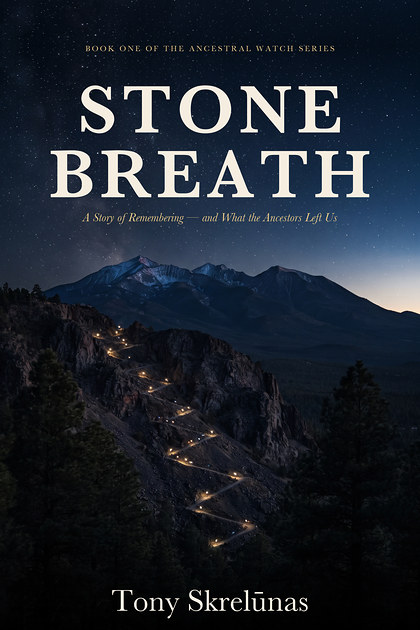
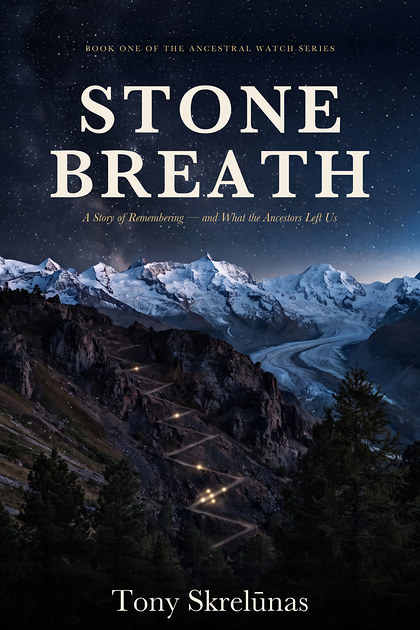
Stone Breath: the cover Tony chose on 11/21, the Swiss Alps before dawn with the five headlamps of mile 95 and three lights above, everywhere the cover shows (home pages, book cards, audio page, journal, press, the book in the solstice article picture); same file names and sizes, a fresh address (?v

diff --git a/journal/index.html b/journal/index.html
@@ -145,7 +145,7 @@
       <li><a href="/journal/seeds-of-the-ancestors/"><span class="n" aria-hidden="true">04</span><img class="th" src="/assets/img/journal-1106/seeds-of-the-ancestors-480x480.jpg" alt="" loading="lazy" decoding="async" width="480" height="480"><span class="t"><b>Seeds of the Ancestors</b><span>The future we keep trying to engineer is already sitting in a jar of seed corn.</span><span class="st">What Gets Carried</span></span></a></li>
       <li><a href="/journal/the-warriors-path/"><span class="n" aria-hidden="true">05</span><img class="th" src="/assets/img/journal-1106/the-warriors-path-480x480.jpg" alt="" loading="lazy" decoding="async" width="480" height="480"><span class="t"><b>The Warrior&rsquo;s Path</b><span>Out of grad school with an MBA and a plan to change a nation, and what the road actually taught me.</span><span class="st">The Long Ride</span></span></a></li>
       <li><a href="/journal/twenty-five-years-to-the-podium-prescott-commencement/"><span class="n" aria-hidden="true">06</span><img class="th" src="/assets/img/journal-1106/twenty-five-years-to-the-podium-prescott-commencement-480x480.jpg" alt="" loading="lazy" decoding="async" width="480" height="480"><span class="t"><b>Twenty-Five Years to That Podium</b><span>Kerosene lamp to commencement podium, and what I found when I finally got there.</span><span class="st">The Doctorate</span></span></a></li>
-      <li><a href="/journal/stone-breath-born-on-the-solstice/"><span class="n" aria-hidden="true">07</span><img class="th" src="/assets/img/journal-1106/stone-breath-born-on-the-solstice-480x480.jpg?v=1121" alt="" loading="lazy" decoding="async" width="480" height="480"><span class="t"><b>Stone Breath: Born on the Solstice, On Purpose</b><span>A man carries his grandfather&rsquo;s book of old melodies home and finds the old ways were only waiting.</span><span class="st">The Novels</span></span></a></li>
+      <li><a href="/journal/stone-breath-born-on-the-solstice/"><span class="n" aria-hidden="true">07</span><img class="th" src="/assets/img/journal-1106/stone-breath-born-on-the-solstice-480x480.jpg?v=1122" alt="" loading="lazy" decoding="async" width="480" height="480"><span class="t"><b>Stone Breath: Born on the Solstice, On Purpose</b><span>A man carries his grandfather&rsquo;s book of old melodies home and finds the old ways were only waiting.</span><span class="st">The Novels</span></span></a></li>
     </ol>
   </div>
 </section>
@@ -295,9 +295,9 @@
         <h2 class="head">The Novels</h2>
         <p class="grp__say">What the essays argue, the fiction carries. Stone Breath came out on the solstice, on purpose, and The Council Fire is out now, with a family walking the red path on its cover.</p>
       </div></div>
-      <figure class="grp__covers"><a href="https://ancestralwatch.com/series/stone-breath/"><img src="/assets/img/stone-breath-cover.jpg?v=1121" alt="Stone Breath, the cover" loading="lazy" decoding="async" width="900" height="1350"></a><a href="https://ancestralwatch.com/series/the-council-fire/"><img src="/assets/img/the-council-fire-arrives-with-a-family-on-its-cover.jpg" alt="The Council Fire, the cover" loading="lazy" decoding="async" width="1067" height="1600"></a><figcaption>The two that are out. Both at <a href="https://ancestralwatch.com">ancestralwatch.com</a>.</figcaption></figure>
+      <figure class="grp__covers"><a href="https://ancestralwatch.com/series/stone-breath/"><img src="/assets/img/stone-breath-cover.jpg?v=1122" alt="Stone Breath, the cover" loading="lazy" decoding="async" width="900" height="1350"></a><a href="https://ancestralwatch.com/series/the-council-fire/"><img src="/assets/img/the-council-fire-arrives-with-a-family-on-its-cover.jpg" alt="The Council Fire, the cover" loading="lazy" decoding="async" width="1067" height="1600"></a><figcaption>The two that are out. Both at <a href="https://ancestralwatch.com">ancestralwatch.com</a>.</figcaption></figure>
       <ul class="jlist">
-        <li><a href="/journal/stone-breath-born-on-the-solstice/"><img class="th" src="/assets/img/journal-1106/stone-breath-born-on-the-solstice-480x480.jpg?v=1121" alt="" loading="lazy" decoding="async" width="480" height="480"><span class="t"><em class="dt"><time datetime="2026-08-07">August&nbsp;7,&nbsp;2026</time></em><b>Stone Breath: Born on the Solstice, On Purpose</b></span></a></li>
+        <li><a href="/journal/stone-breath-born-on-the-solstice/"><img class="th" src="/assets/img/journal-1106/stone-breath-born-on-the-solstice-480x480.jpg?v=1122" alt="" loading="lazy" decoding="async" width="480" height="480"><span class="t"><em class="dt"><time datetime="2026-08-07">August&nbsp;7,&nbsp;2026</time></em><b>Stone Breath: Born on the Solstice, On Purpose</b></span></a></li>
         <li><a href="/journal/what-a-far-messenger-is/"><img class="th" src="/assets/img/journal-1106/what-a-far-messenger-is-480x480.jpg" alt="" loading="lazy" decoding="async" width="480" height="480"><span class="t"><em class="dt"><time datetime="2026-08-25">August&nbsp;25,&nbsp;2026</time></em><b>What a Far Messenger Is</b></span></a></li>
         <li><a href="/journal/stone-breath-has-gone-out-to-the-world/"><span class="th th--art" role="img" aria-label="Stylized cresting wave" style="--art:url(/assets/art/japan-wave.svg)"></span><span class="t"><em class="dt"><time datetime="2026-09-11">September&nbsp;11,&nbsp;2026</time></em><b>Stone Breath Has Gone Out to the World</b></span></a></li>
         <li><a href="/journal/the-council-fire-arrives-with-a-family-on-its-cover/"><img class="th" src="/assets/img/journal-1106/the-council-fire-arrives-with-a-family-on-its-cover-480x480.jpg" alt="" loading="lazy" decoding="async" width="480" height="480"><span class="t"><em class="dt"><time datetime="2026-10-19">October&nbsp;19,&nbsp;2026</time></em><b>The Council Fire Arrives With a Family on Its Cover</b></span></a></li>

diff --git a/ja/sobo-dake-ga-shitteita-shigoto/index.html b/ja/sobo-dake-ga-shitteita-shigoto/index.html
@@ -181,7 +181,7 @@
 <p>だから、私たちより前に来た人たちは、何も取り逃がしてなどいなかった。彼らは、唯一長く続くことをしていたのだ。会うことのないかもしれない子のために種をまき、誰も点数をつけないままそれをやった。トウモロコシ畑にいる曾祖父母を思うとき、私は見出されるのを待っている人々を思い浮かべない。自分がどこにいるか、誰のために働いているかを、正確に知っていた人々を思い浮かべる。</p>
 <figure class="art-fig"><img src="/assets/img/journal-1110/the-oak-planted-for-someone-not-yet-born-1200x800.jpg" srcset="/assets/img/journal-1110/the-oak-planted-for-someone-not-yet-born-1200x800.jpg 1200w, /assets/img/journal-1110/the-oak-planted-for-someone-not-yet-born-2000x1333.jpg 2000w" sizes="(max-width: 900px) 100vw, 900px" alt="夜明けの露に濡れた野原で、木の杭のそばに植えられたばかりの若いオークの苗。霧の中、その後ろに巨大な老いたオークが立っている" loading="lazy" decoding="async" width="1200" height="800"></figure>
 <p>私はその感覚を Stone Breath に書き込んだ。トナスは本を一冊持ち帰るよう頼まれているが、どこへ持ち帰るのかは誰にも告げられなかった。アウステヤ(Austėja)は、彼の曾祖父が子どもが生まれたときに植えたオークを覚えていて、それを探す手伝いのために丸一日を差し出すと言う。本当にそうするのかと彼が尋ねると、彼女は答える。「あなたのためにやっているんじゃない。あの人たちのためにやっているの」。オークは喝采のために植えるものではない。自分がいなくなってからずっと後に、その木陰に立つ誰かのために植えるのだ。<a href="https://ancestralwatch.com/series/stone-breath/">その本はここにある</a>。</p>
-<aside class="bookcard"><a href="https://ancestralwatch.com/series/stone-breath/"><img src="/assets/home-v2/img/cover-stone-breath-560.jpg?v=1121" alt="Stone Breath の表紙" loading="lazy" width="300" height="450"><span><em>The Ancestral Watch 第一巻</em><b>Stone Breath</b><span class="bookcard__go">本を見る &rarr;</span></span></a></aside>
+<aside class="bookcard"><a href="https://ancestralwatch.com/series/stone-breath/"><img src="/assets/home-v2/img/cover-stone-breath-560.jpg?v=1122" alt="Stone Breath の表紙" loading="lazy" width="300" height="450"><span><em>The Ancestral Watch 第一巻</em><b>Stone Breath</b><span class="bookcard__go">本を見る &rarr;</span></span></a></aside>
 <p>次にその声が現れたとき、これでできることがある。立ち止まって、世界が覚えていない静かな仕事を自分のためにしてくれた人をひとり、思い浮かべる。その名を声に出して言う。それから自分の持ち場に戻り、自分の静かな仕事に一時間を捧げる。あとから来る誰かのために。心が落ち着くことの短いリストを持っておくと助けになる。散歩、ゆっくりした数回の呼吸、ストレッチ、日記の一ページ。気づけば画面をスクロールしていたら、そのリストを開いてひとつやってみて、それでもまだ画面が欲しいかどうか確かめてほしい。</p>
 <p>あなたがあそこで築くものを、世界は覚えていないかもしれない。それは最初から要点ではなかった。あなたの孫たちが、その上に立つのだ。</p>
 

diff --git a/es/el-trabajo-que-solo-mi-abuela-conocia/index.html b/es/el-trabajo-que-solo-mi-abuela-conocia/index.html
@@ -181,7 +181,7 @@
 <p>Así que los que vinieron antes que nosotros no se estaban perdiendo nada. Hacían lo único que dura. Sembraron para un niño que quizá nunca conocerían, y lo hicieron sin que nadie llevara la cuenta. Cuando pienso en mis bisabuelos en el campo de maíz, no me imagino gente esperando a ser descubierta. Me imagino gente que sabía exactamente dónde estaba y exactamente para quién trabajaba.</p>
 <figure class="art-fig"><img src="/assets/img/journal-1110/the-oak-planted-for-someone-not-yet-born-1200x800.jpg" srcset="/assets/img/journal-1110/the-oak-planted-for-someone-not-yet-born-1200x800.jpg 1200w, /assets/img/journal-1110/the-oak-planted-for-someone-not-yet-born-2000x1333.jpg 2000w" sizes="(max-width: 900px) 100vw, 900px" alt="Un roble joven recién plantado junto a una estaca de madera en un campo con rocío al amanecer, y detrás, entre la niebla, un roble viejo enorme" loading="lazy" decoding="async" width="1200" height="800"></figure>
 <p>Escribí ese sentimiento en Stone Breath. A Tonas le han pedido que traiga un libro a casa, y nunca le dijeron dónde. Austėja recuerda un roble que el bisabuelo de él plantó cuando nació un niño, y se ofrece a dedicar un día entero para ayudarlo a encontrarlo. Cuando él le pregunta si de verdad lo haría, ella le dice: &ldquo;No lo hago por ti. Lo hago por ellos.&rdquo; Nadie planta un roble para recibir aplausos. Se planta para alguien que estará bajo su sombra mucho después de que tú ya no estés. <a href="https://ancestralwatch.com/series/stone-breath/">El libro está aquí</a>.</p>
-<aside class="bookcard"><a href="https://ancestralwatch.com/series/stone-breath/"><img src="/assets/home-v2/img/cover-stone-breath-560.jpg?v=1121" alt="La portada de Stone Breath" loading="lazy" width="300" height="450"><span><em>Libro uno de The Ancestral Watch</em><b>Stone Breath</b><span class="bookcard__go">Ver el libro &rarr;</span></span></a></aside>
+<aside class="bookcard"><a href="https://ancestralwatch.com/series/stone-breath/"><img src="/assets/home-v2/img/cover-stone-breath-560.jpg?v=1122" alt="La portada de Stone Breath" loading="lazy" width="300" height="450"><span><em>Libro uno de The Ancestral Watch</em><b>Stone Breath</b><span class="bookcard__go">Ver el libro &rarr;</span></span></a></aside>
 <p>Esto es lo que puedes hacer con todo esto la próxima vez que aparezca la voz. Detente y nombra a una persona que hizo para ti un trabajo callado que el mundo no recuerda. Di su nombre en voz alta. Luego vuelve a tu propia tierra y dale una hora a tu propio trabajo callado, para alguien que viene después de ti. Ayuda tener una lista corta de las cosas que te calman, una caminata, unas cuantas respiraciones lentas, un estiramiento, una página de un diario. Cuando te descubras desplazando la pantalla, ve a la lista y haz una, y mira si todavía quieres la pantalla.</p>
 <p>Puede que el mundo no recuerde lo que construyas allá afuera. Ese nunca fue el punto. Tus nietos estarán parados sobre ello.</p>
 

diff --git a/journal/the-work-only-my-grandmother-knew-about/index.html b/journal/the-work-only-my-grandmother-knew-about/index.html
@@ -177,7 +177,7 @@
 <p>So the ones who came before us were not missing out. They were doing the one thing that lasts. They planted for a child they might never meet, and they did it without anyone keeping score. When I think about my great-grandparents in the cornfield, I do not picture people waiting to be discovered. I picture people who knew exactly where they were and exactly who they were working for.</p>
 <figure class="art-fig"><img src="/assets/img/journal-1110/the-oak-planted-for-someone-not-yet-born-1200x800.jpg" srcset="/assets/img/journal-1110/the-oak-planted-for-someone-not-yet-born-1200x800.jpg 1200w, /assets/img/journal-1110/the-oak-planted-for-someone-not-yet-born-2000x1333.jpg 2000w" sizes="(max-width: 900px) 100vw, 900px" alt="A young oak sapling newly planted beside a wooden stake in a dewy field at sunrise, with a huge old oak standing in the mist behind it" loading="lazy" decoding="async" width="1200" height="800"></figure>
 <p>I wrote that feeling into Stone Breath. Tonas has been asked to bring a book home, and he was never told where. Austėja remembers an oak his great-grandfather planted when a child was born, and she offers to give up a whole day to help him find it. When he asks if she would really do that, she tells him, &ldquo;I&rsquo;m not doing this for you. I&rsquo;m doing it for them.&rdquo; Nobody plants an oak for applause. You plant it for someone who will stand in its shade long after you are gone. <a href="https://ancestralwatch.com/series/stone-breath/">The book is here</a>.</p>
-<aside class="bookcard"><a href="https://ancestralwatch.com/series/stone-breath/"><img src="/assets/home-v2/img/cover-stone-breath-560.jpg?v=1121" alt="The cover of Stone Breath" loading="lazy" width="300" height="450"><span><em>Book one of The Ancestral Watch</em><b>Stone Breath</b><span class="bookcard__go">See the book &rarr;</span></span></a></aside>
+<aside class="bookcard"><a href="https://ancestralwatch.com/series/stone-breath/"><img src="/assets/home-v2/img/cover-stone-breath-560.jpg?v=1122" alt="The cover of Stone Breath" loading="lazy" width="300" height="450"><span><em>Book one of The Ancestral Watch</em><b>Stone Breath</b><span class="bookcard__go">See the book &rarr;</span></span></a></aside>
 <p>Here is something you can do with this the next time the voice shows up. Stop, and name one person who did quiet work for you that the world does not remember. Say their name out loud. Then go back to your own ground and give one hour to your own quiet work, for someone who comes after you. It helps to keep a short list of the things that settle you, a walk, a few slow breaths, a stretch, a page in a journal. When you catch yourself scrolling, go to the list and do one, and see if you still want the screen.</p>
 <p>The world may not remember what you build out there. That was never the point. Your grandchildren will be standing on it.</p> <div class="share">
   <p>Share it</p>

diff --git a/lt/darbas-apie-kuri-zinojo-tik-mano-mociute/index.html b/lt/darbas-apie-kuri-zinojo-tik-mano-mociute/index.html
@@ -181,7 +181,7 @@
 <p>Taigi tie, kurie buvo prieš mus, nieko neprarado. Jie darė vienintelį dalyką, kuris išlieka. Sodino vaikui, kurio gal niekada nesutiks, ir darė tai niekam neskaičiuojant taškų. Kai pagalvoju apie savo prosenelius kukurūzų lauke, neįsivaizduoju žmonių, laukiančių, kol bus atrasti. Įsivaizduoju žmones, kurie tiksliai žinojo, kur yra ir kam dirba.</p>
 <figure class="art-fig"><img src="/assets/img/journal-1110/the-oak-planted-for-someone-not-yet-born-1200x800.jpg" srcset="/assets/img/journal-1110/the-oak-planted-for-someone-not-yet-born-1200x800.jpg 1200w, /assets/img/journal-1110/the-oak-planted-for-someone-not-yet-born-2000x1333.jpg 2000w" sizes="(max-width: 900px) 100vw, 900px" alt="Jaunas ką tik pasodintas ąžuoliukas šalia medinio kuolelio rasotame lauke saulėtekio metu, o už jo rūke stovi didžiulis senas ąžuolas" loading="lazy" decoding="async" width="1200" height="800"></figure>
 <p>Tą jausmą įrašiau į Stone Breath. Tonui liepta parnešti namo knygą, ir niekas jam nepasakė, kur. Austėja prisimena ąžuolą, kurį jo prosenelis pasodino, kai gimė vaikas, ir pasiūlo atiduoti visą dieną, kad padėtų jį surasti. Kai jis paklausia, ar ji tikrai taip padarytų, ji atsako: &ldquo;Aš to nedarau dėl tavęs. Darau tai dėl jų.&rdquo; Niekas nesodina ąžuolo plojimams. Sodini tam, kas stovės jo pavėsyje ilgai po to, kai tavęs nebus. <a href="https://ancestralwatch.com/series/stone-breath/">Knyga yra čia</a>.</p>
-<aside class="bookcard"><a href="https://ancestralwatch.com/series/stone-breath/"><img src="/assets/home-v2/img/cover-stone-breath-560.jpg?v=1121" alt="Stone Breath viršelis" loading="lazy" width="300" height="450"><span><em>Pirma „The Ancestral Watch“ knyga</em><b>Stone Breath</b><span class="bookcard__go">Pamatyti knygą &rarr;</span></span></a></aside>
+<aside class="bookcard"><a href="https://ancestralwatch.com/series/stone-breath/"><img src="/assets/home-v2/img/cover-stone-breath-560.jpg?v=1122" alt="Stone Breath viršelis" loading="lazy" width="300" height="450"><span><em>Pirma „The Ancestral Watch“ knyga</em><b>Stone Breath</b><span class="bookcard__go">Pamatyti knygą &rarr;</span></span></a></aside>
 <p>Štai ką su tuo gali daryti kitą kartą, kai balsas pasirodys. Sustok ir įvardyk vieną žmogų, kuris tau dirbo tylų darbą, kurio pasaulis neprisimena. Pasakyk jo vardą garsiai. Tada grįžk į savo žemę ir skirk valandą savo tylam darbui, kam nors, kas ateis po tavęs. Padeda trumpas sąrašas dalykų, kurie tave nuramina: pasivaikščiojimas, keli lėti įkvėpimai, patempimas, puslapis dienoraštyje. Pagavęs save slenkant ekraną, eik prie sąrašo ir padaryk vieną dalyką, ir pažiūrėk, ar vis dar nori ekrano.</p>
 <p>Pasaulis gali neprisiminti to, ką ten pastatysi. Tai niekada nebuvo esmė. Tavo anūkai stovės ant to.</p>
 

diff --git a/journal/stone-breath-born-on-the-solstice/index.html b/journal/stone-breath-born-on-the-solstice/index.html
@@ -62,7 +62,7 @@
 <meta property="og:title" content="Stone Breath: Born on the Solstice, On Purpose — TribeAwaken">
 <meta property="og:description" content="A novel about the songs we carry across oceans — and the roots that a lifetime of forgetting could never take. Released on the solstice, on purpose.">
 <meta property="og:url" content="https://tribeawaken.com/journal/stone-breath-born-on-the-solstice/">
-<meta property="og:image" content="https://tribeawaken.com/assets/img/journal/stone-breath-born-on-the-solstice/0.jpeg?v=1121">
+<meta property="og:image" content="https://tribeawaken.com/assets/img/journal/stone-breath-born-on-the-solstice/0.jpeg?v=1122">
 <meta name="twitter:card" content="summary_large_image">
 <style>
 .upd{border:1px solid var(--clay);border-left-width:3px;border-radius:2px;
@@ -114,7 +114,7 @@
 <!-- ===== /SITE MENU ===== -->
 
 
-<main id="main"><article class="art"><div class="wrap"><p class="eyebrow" style="color:var(--turq)">The Books</p><h1 style="font-family:var(--font-display);font-size:var(--step-4);line-height:1.08;">Stone Breath: Born on the Solstice, On Purpose</h1><p class="lead">A novel about the songs we carry across oceans — and the roots that a lifetime of forgetting could never take. Released on the solstice, on purpose.</p><figure class="article__hero" style="margin:0 0 var(--space-4);border-radius:var(--radius-lg);overflow:hidden;"><img src="/assets/img/journal/stone-breath-born-on-the-solstice/0.jpeg?v=1121" alt="" loading="eager" style="width:100%;height:auto;display:block;"></figure><p class="artdate"><time datetime="2026-08-07">August&nbsp;7,&nbsp;2026</time></p>
+<main id="main"><article class="art"><div class="wrap"><p class="eyebrow" style="color:var(--turq)">The Books</p><h1 style="font-family:var(--font-display);font-size:var(--step-4);line-height:1.08;">Stone Breath: Born on the Solstice, On Purpose</h1><p class="lead">A novel about the songs we carry across oceans — and the roots that a lifetime of forgetting could never take. Released on the solstice, on purpose.</p><figure class="article__hero" style="margin:0 0 var(--space-4);border-radius:var(--radius-lg);overflow:hidden;"><img src="/assets/img/journal/stone-breath-born-on-the-solstice/0.jpeg?v=1122" alt="" loading="eager" style="width:100%;height:auto;display:block;"></figure><p class="artdate"><time datetime="2026-08-07">August&nbsp;7,&nbsp;2026</time></p>
 <div class="article__body"><div class="upd">
 <b>Update &middot; September 11, 2026</b>
 <p><em>Stone Breath</em> is now in <strong>worldwide distribution</strong> &mdash; Apple Books, Kobo, booksellers from Berlin to Sydney, and the catalogs public libraries draw from. One universal link routes you to whichever store is yours: <a href="https://books2read.com/u/4AEDdd" target="_blank" rel="noopener">books2read.com/u/4AEDdd</a></p>

diff --git a/ja/home/index.html b/ja/home/index.html
@@ -125,7 +125,7 @@
         <a class="btn ghost dark" href="/contact/#write">Tonyと仕事をする</a>
       </div>
       <a class="hero-books reveal d3" href="https://ancestralwatch.com">
-        <span class="covers"><img src="/assets/home-v2/img/cover-stone-breath-560.jpg?v=1121" alt=""><img src="/assets/home-v2/img/cover-the-far-messengers-560.jpg" alt=""><img src="/assets/home-v2/img/cover-the-council-fire-600.jpg?v=1111" alt=""></span>
+        <span class="covers"><img src="/assets/home-v2/img/cover-stone-breath-560.jpg?v=1122" alt=""><img src="/assets/home-v2/img/cover-the-far-messengers-560.jpg" alt=""><img src="/assets/home-v2/img/cover-the-council-fire-600.jpg?v=1111" alt=""></span>
         <span class="t"><b>小説シリーズ「Ancestral Watch」</b><small>Stone Breath · The Far Messengers · The Council Fire</small></span><span class="arrow" aria-hidden="true">→</span>
       </a>
       <div class="say reveal d4">
@@ -409,7 +409,7 @@
     <p class="reveal">これまでに三作の小説があり、それぞれのなかにひとつの実践があります。『Stone Breath（石の呼吸）』は、上で数えた呼吸です。『The Far Messengers』は鍛錬です。『The Council Fire（評議の火）』は輪、そしてひとつの民が立て直していく道筋です。</p>
   </div>
   <div class="shelf">
-    <a class="book reveal" href="https://ancestralwatch.com/series/stone-breath/"><img src="/assets/home-v2/img/cover-stone-breath-560.jpg?v=1121" alt="『Stone Breath』第一巻" loading="lazy"><div><h3>Stone Breath</h3><p>思い出すことの物語。そして、川の小石の上で数える呼吸。</p><small>第一巻 →</small></div></a>
+    <a class="book reveal" href="https://ancestralwatch.com/series/stone-breath/"><img src="/assets/home-v2/img/cover-stone-breath-560.jpg?v=1122" alt="『Stone Breath』第一巻" loading="lazy"><div><h3>Stone Breath</h3><p>思い出すことの物語。そして、川の小石の上で数える呼吸。</p><small>第一巻 →</small></div></a>
     <a class="book reveal d1" href="https://ancestralwatch.com/series/the-far-messengers/"><img src="/assets/home-v2/img/cover-the-far-messengers-560.jpg" alt="『The Far Messengers』第二巻" loading="lazy"><div><h3>The Far Messengers</h3><p>世界会議での七日間と、運び手たちが積んだ鍛錬。</p><small>第二巻 →</small></div></a>
     <a class="book reveal d2" href="https://ancestralwatch.com/series/the-council-fire/"><img src="/assets/home-v2/img/cover-the-council-fire-600.jpg?v=1111" alt="『The Council Fire』第三巻" loading="lazy"><div><h3>The Council Fire</h3><p>私たちが立て直す世界のための、原初の教え。表紙には家族の姿。</p><small>第三巻 →</small></div></a>
   </div>

diff --git a/lt/pradzia/index.html b/lt/pradzia/index.html
@@ -125,7 +125,7 @@
         <a class="btn ghost dark" href="/contact/#write">Dirbti su Tony</a>
       </div>
       <a class="hero-books reveal d3" href="https://ancestralwatch.com">
-        <span class="covers"><img src="/assets/home-v2/img/cover-stone-breath-560.jpg?v=1121" alt=""><img src="/assets/home-v2/img/cover-the-far-messengers-560.jpg" alt=""><img src="/assets/home-v2/img/cover-the-council-fire-600.jpg?v=1111" alt=""></span>
+        <span class="covers"><img src="/assets/home-v2/img/cover-stone-breath-560.jpg?v=1122" alt=""><img src="/assets/home-v2/img/cover-the-far-messengers-560.jpg" alt=""><img src="/assets/home-v2/img/cover-the-council-fire-600.jpg?v=1111" alt=""></span>
         <span class="t"><b>Romanų serija „Ancestral Watch“</b><small>Stone Breath · The Far Messengers · The Council Fire</small></span><span class="arrow" aria-hidden="true">→</span>
       </a>
       <div class="say reveal d4">
@@ -409,7 +409,7 @@
     <p class="reveal">Kol kas trys romanai, ir kiekviename slypi praktika. „Stone Breath“ („Akmens kvėpavimas“) yra aukščiau skaičiuotas kvėpavimas. „The Far Messengers“ yra treniruotė. „The Council Fire“ („Tarybos ugnis“) yra ratas ir tai, kaip tauta atsikuria.</p>
   </div>
   <div class="shelf">
-    <a class="book reveal" href="https://ancestralwatch.com/series/stone-breath/"><img src="/assets/home-v2/img/cover-stone-breath-560.jpg?v=1121" alt="„Stone Breath“, pirmoji knyga" loading="lazy"><div><h3>Stone Breath</h3><p>Pasakojimas apie atsiminimą, o kartu kvėpavimas, skaičiuojamas ant upės akmenuko.</p><small>Pirmoji knyga →</small></div></a>
+    <a class="book reveal" href="https://ancestralwatch.com/series/stone-breath/"><img src="/assets/home-v2/img/cover-stone-breath-560.jpg?v=1122" alt="„Stone Breath“, pirmoji knyga" loading="lazy"><div><h3>Stone Breath</h3><p>Pasakojimas apie atsiminimą, o kartu kvėpavimas, skaičiuojamas ant upės akmenuko.</p><small>Pirmoji knyga →</small></div></a>
     <a class="book reveal d1" href="https://ancestralwatch.com/series/the-far-messengers/"><img src="/assets/home-v2/img/cover-the-far-messengers-560.jpg" alt="„The Far Messengers“, antroji knyga" loading="lazy"><div><h3>The Far Messengers</h3><p>Septynios dienos pasauliniame kongrese ir disciplinos, kurių mokėsi nešėjai.</p><small>Antroji knyga →</small></div></a>
     <a class="book reveal d2" href="https://ancestralwatch.com/series/the-council-fire/"><img src="/assets/home-v2/img/cover-the-council-fire-600.jpg?v=1111" alt="„The Council Fire“, trečioji knyga" loading="lazy"><div><h3>The Council Fire</h3><p>Pirmapradžiai priesakai pasauliui, kurį atkuriame, su šeima viršelyje.</p><small>Trečioji knyga →</small></div></a>
   </div>

diff --git a/es/inicio/index.html b/es/inicio/index.html
@@ -125,7 +125,7 @@
         <a class="btn ghost dark" href="/contact/#write">Trabaje con Tony</a>
       </div>
       <a class="hero-books reveal d3" href="https://ancestralwatch.com">
-        <span class="covers"><img src="/assets/home-v2/img/cover-stone-breath-560.jpg?v=1121" alt=""><img src="/assets/home-v2/img/cover-the-far-messengers-560.jpg" alt=""><img src="/assets/home-v2/img/cover-the-council-fire-600.jpg?v=1111" alt=""></span>
+        <span class="covers"><img src="/assets/home-v2/img/cover-stone-breath-560.jpg?v=1122" alt=""><img src="/assets/home-v2/img/cover-the-far-messengers-560.jpg" alt=""><img src="/assets/home-v2/img/cover-the-council-fire-600.jpg?v=1111" alt=""></span>
         <span class="t"><b>Las novelas Ancestral Watch</b><small>Stone Breath · The Far Messengers · The Council Fire</small></span><span class="arrow" aria-hidden="true">→</span>
       </a>
       <div class="say reveal d4">
@@ -409,7 +409,7 @@
     <p class="reveal">Tres novelas hasta ahora, y una práctica dentro de cada una. Stone Breath (La respiración de la piedra) es la respiración que contamos más arriba. The Far Messengers es el entrenamiento. The Council Fire (El Fuego del Consejo) es el círculo, y la manera en que un pueblo se reconstruye.</p>
   </div>
   <div class="shelf">
-    <a class="book reveal" href="https://ancestralwatch.com/series/stone-breath/"><img src="/assets/home-v2/img/cover-stone-breath-560.jpg?v=1121" alt="Stone Breath, libro uno" loading="lazy"><div><h3>Stone Breath</h3><p>Una historia del recordar, y la respiración contada sobre una piedrita de río.</p><small>Libro uno →</small></div></a>
+    <a class="book reveal" href="https://ancestralwatch.com/series/stone-breath/"><img src="/assets/home-v2/img/cover-stone-breath-560.jpg?v=1122" alt="Stone Breath, libro uno" loading="lazy"><div><h3>Stone Breath</h3><p>Una historia del recordar, y la respiración contada sobre una piedrita de río.</p><small>Libro uno →</small></div></a>
     <a class="book reveal d1" href="https://ancestralwatch.com/series/the-far-messengers/"><img src="/assets/home-v2/img/cover-the-far-messengers-560.jpg" alt="The Far Messengers, libro dos" loading="lazy"><div><h3>The Far Messengers</h3><p>Siete días en un congreso mundial, y las disciplinas en que se entrenaban los portadores.</p><small>Libro dos →</small></div></a>
     <a class="book reveal d2" href="https://ancestralwatch.com/series/the-council-fire/"><img src="/assets/home-v2/img/cover-the-council-fire-600.jpg?v=1111" alt="The Council Fire, libro tres" loading="lazy"><div><h3>The Council Fire</h3><p>Las instrucciones originales para el mundo que reconstruimos, con una familia en su portada.</p><small>Libro tres →</small></div></a>
   </div>

diff --git a/human-resilience/v2/index.html b/human-resilience/v2/index.html
@@ -104,7 +104,7 @@
       <a class="btn green" href="#healing">Begin here <span class="arrow">→</span></a>
       <a class="btn ghost dark" href="/human-resilience/essay/">Read the whole essay</a>
     </div>
-    <a class="bookline reveal d4" href="https://ancestralwatch.com"><img src="/assets/home-v2/img/cover-stone-breath-560.jpg?v=1121" alt="Stone Breath, the book"><span><b>Stone Breath</b><small>A Story of Remembering — and What the Ancestors Left Us. Book one of the Ancestral Watch.</small></span></a>
+    <a class="bookline reveal d4" href="https://ancestralwatch.com"><img src="/assets/home-v2/img/cover-stone-breath-560.jpg?v=1122" alt="Stone Breath, the book"><span><b>Stone Breath</b><small>A Story of Remembering — and What the Ancestors Left Us. Book one of the Ancestral Watch.</small></span></a>
   </div>
   <div class="media">
     <div class="ap-loop" data-src="/assets/home-v2/video/garden-first-light-misty-1280x720-dawn-20s.mp4" data-poster="/assets/home-v2/img/garden-first-light-misty-dawn-poster-1280.jpg" data-src-wide="/assets/home-v2/video/garden-first-light-misty-1280x720-dawn-20s.mp4" data-poster-wide="/assets/home-v2/img/garden-first-light-misty-dawn-poster-1280.jpg" data-src-phone="/assets/pillars-1110/video/garden-first-light-misty-720x1280-light.mp4" data-poster-phone="/assets/pillars-1110/video/garden-first-light-misty-720x1280-poster.jpg"></div>
@@ -178,7 +178,7 @@
     <div class="ap-loop" data-src="/assets/home-v2/video/the-stone-in-a-childs-hand.mp4" data-poster="/assets/home-v2/video/the-stone-in-a-childs-hand-poster.jpg"></div>
     <p class="cap">A stone is placed in a child's open hand.</p>
   </div>
-  <img class="cover r" src="/assets/home-v2/img/cover-stone-breath-560.jpg?v=1121" alt="" loading="lazy">
+  <img class="cover r" src="/assets/home-v2/img/cover-stone-breath-560.jpg?v=1122" alt="" loading="lazy">
   <div class="text">
     <span class="num reveal">04</span>
     <h2 class="reveal">The Stone Breath.</h2>
@@ -206,7 +206,7 @@
 <!-- ===== 06 THE BOOKS ===== -->
 <section class="row2" id="books" data-scene="hearth" data-scene-label="amber light">
   <div class="shelf reveal">
-    <img src="/assets/home-v2/img/cover-stone-breath-560.jpg?v=1121" alt="Stone Breath" loading="lazy">
+    <img src="/assets/home-v2/img/cover-stone-breath-560.jpg?v=1122" alt="Stone Breath" loading="lazy">
     <img src="/assets/home-v2/img/cover-the-far-messengers-560.jpg" alt="The Far Messengers" loading="lazy">
     <img src="/assets/home-v2/img/cover-the-council-fire-600.jpg" alt="The Council Fire" loading="lazy">
   </div>

diff --git a/index.html b/index.html
@@ -131,7 +131,7 @@
         <a class="btn ghost dark" href="/contact/#write">Work with Tony</a>
       </div>
       <a class="hero-books reveal d3" href="https://ancestralwatch.com">
-        <span class="covers"><img src="/assets/home-v2/img/cover-stone-breath-560.jpg?v=1121" alt=""><img src="/assets/home-v2/img/cover-the-far-messengers-560.jpg" alt=""><img src="/assets/home-v2/img/cover-the-council-fire-600.jpg?v=1111" alt=""></span>
+        <span class="covers"><img src="/assets/home-v2/img/cover-stone-breath-560.jpg?v=1122" alt=""><img src="/assets/home-v2/img/cover-the-far-messengers-560.jpg" alt=""><img src="/assets/home-v2/img/cover-the-council-fire-600.jpg?v=1111" alt=""></span>
         <span class="t"><b>The Ancestral Watch novels</b><small>Stone Breath · The Far Messengers · The Council Fire</small></span><span class="arrow" aria-hidden="true">→</span>
       </a>
       <div class="say reveal d4">
@@ -374,7 +374,7 @@
     <p class="reveal">Three novels so far, and a practice inside each one. Stone Breath is the breath counted above. The Far Messengers is the training. The Council Fire is the circle, and how a people rebuilds.</p>
   </div>
   <div class="shelf">
-    <a class="book reveal" href="https://ancestralwatch.com/series/stone-breath/"><img src="/assets/home-v2/img/cover-stone-breath-560.jpg?v=1121" alt="Stone Breath, book one" loading="lazy"><div><h3>Stone Breath</h3><p>A story of remembering, and the breath counted on a river pebble.</p><small>Book one →</small></div></a>
+    <a class="book reveal" href="https://ancestralwatch.com/series/stone-breath/"><img src="/assets/home-v2/img/cover-stone-breath-560.jpg?v=1122" alt="Stone Breath, book one" loading="lazy"><div><h3>Stone Breath</h3><p>A story of remembering, and the breath counted on a river pebble.</p><small>Book one →</small></div></a>
     <a class="book reveal d1" href="https://ancestralwatch.com/series/the-far-messengers/"><img src="/assets/home-v2/img/cover-the-far-messengers-560.jpg" alt="The Far Messengers, book four" loading="lazy"><div><h3>The Far Messengers</h3><p>Seven days at a world congress, and the disciplines the carriers trained.</p><small>Book two →</small></div></a>
     <a class="book reveal d2" href="https://ancestralwatch.com/series/the-council-fire/"><img src="/assets/home-v2/img/cover-the-council-fire-600.jpg?v=1111" alt="The Council Fire, book three" loading="lazy"><div><h3>The Council Fire</h3><p>The original instructions for the world we rebuild, with a family on its cover.</p><small>Book three →</small></div></a>
   </div>

diff --git a/phone-test/index.html b/phone-test/index.html
@@ -133,7 +133,7 @@
         <a class="btn ghost dark" href="/contact/#write">Work with Tony</a>
       </div>
       <a class="hero-books reveal d3" href="https://ancestralwatch.com">
-        <span class="covers"><img src="/assets/home-v2/img/cover-stone-breath-560.jpg?v=1121" alt=""><img src="/assets/home-v2/img/cover-the-far-messengers-560.jpg" alt=""><img src="/assets/home-v2/img/cover-the-council-fire-600.jpg?v=1111" alt=""></span>
+        <span class="covers"><img src="/assets/home-v2/img/cover-stone-breath-560.jpg?v=1122" alt=""><img src="/assets/home-v2/img/cover-the-far-messengers-560.jpg" alt=""><img src="/assets/home-v2/img/cover-the-council-fire-600.jpg?v=1111" alt=""></span>
         <span class="t"><b>The Ancestral Watch novels</b><small>Stone Breath · The Far Messengers · The Council Fire</small></span><span class="arrow" aria-hidden="true">→</span>
       </a>
       <div class="say reveal d4">
@@ -376,7 +376,7 @@
     <p class="reveal">Three novels so far, and a practice inside each one. Stone Breath is the breath counted above. The Far Messengers is the training. The Council Fire is the circle, and how a people rebuilds.</p>
   </div>
   <div class="shelf">
-    <a class="book reveal" href="https://ancestralwatch.com/series/stone-breath/"><img src="/assets/home-v2/img/cover-stone-breath-560.jpg?v=1121" alt="Stone Breath, book one" loading="lazy"><div><h3>Stone Breath</h3><p>A story of remembering, and the breath counted on a river pebble.</p><small>Book one →</small></div></a>
+    <a class="book reveal" href="https://ancestralwatch.com/series/stone-breath/"><img src="/assets/home-v2/img/cover-stone-breath-560.jpg?v=1122" alt="Stone Breath, book one" loading="lazy"><div><h3>Stone Breath</h3><p>A story of remembering, and the breath counted on a river pebble.</p><small>Book one →</small></div></a>
     <a class="book reveal d1" href="https://ancestralwatch.com/series/the-far-messengers/"><img src="/assets/home-v2/img/cover-the-far-messengers-560.jpg" alt="The Far Messengers, book four" loading="lazy"><div><h3>The Far Messengers</h3><p>Seven days at a world congress, and the disciplines the carriers trained.</p><small>Book two →</small></div></a>
     <a class="book reveal d2" href="https://ancestralwatch.com/series/the-council-fire/"><img src="/assets/home-v2/img/cover-the-council-fire-600.jpg?v=1111" alt="The Council Fire, book three" loading="lazy"><div><h3>The Council Fire</h3><p>The original instructions for the world we rebuild, with a family on its cover.</p><small>Book three →</small></div></a>
   </div>
